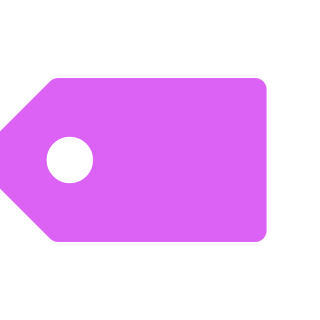
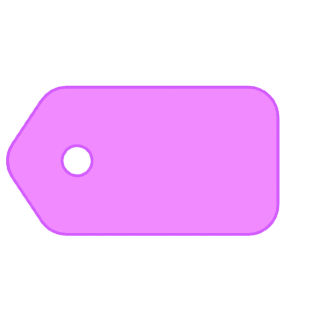
section media + some changes
سکشن مدیا تموم شد

مشکل: این دیو شش ضلعی رو نمیدونم واقعا چطور باید کنار پی قرار بدم

diff --git a/Design Post/Design-Post.css b/Design Post/Design-Post.css
@@ -9,6 +9,10 @@ body {
    background-color: hsl(240, 35%, 22%);
 }
 
+* {
+   box-sizing: border-box;
+}
+
 main .container {
    width: 1200px;
    margin: 0 auto;
@@ -252,23 +256,24 @@ p {
    align-items: center;
 }
 
-#pen .paragraphs div {
+#pen .paragraphs > div {
    width: 49%;
-   overflow: hidden;
+   
+   line-height: 0%;
 }
 
+#pen .letter > div {
+   display: inline-block;
+}
 
 #pen .hexagon {
-   display: inline-block;
-   background-image: url(img/hexagon-svgrepo-com.svg);
+   width: 90px;
+   height: 70px;
+   background-position: center;
+   background-repeat: no-repeat;
+   background-size: 80%;
+   background-image: url(img/hexagon\ final.png);
 }
-
-#pen .hexagon span {
-   font-size: large;
-}
-
-
-
 
 /* Keyboard Section .................................................*/
 
@@ -324,7 +329,7 @@ p {
 
 #keyboard ul>li:nth-of-type(1) {
    animation: appearing 2s forwards;
-visibility: hidden;
+   visibility: hidden;
 }
 
 #keyboard ul>li:nth-of-type(2) {
@@ -339,7 +344,7 @@ visibility: hidden;
 
 
 @keyframes appearing {
- from {
+   from {
       visibility: hidden;
       transform: translateY(60%);
    }
@@ -361,26 +366,27 @@ visibility: hidden;
 #media .mediaTags {
    display: flex;
    flex-direction: row;
-   justify-content: left;
+   justify-content: space-between;
    align-items: center;
 
+   width: 70%;
    margin-bottom: 6%;
 }
 
 #media .tagBackground {
-   background-image: url(img/tag2.svg);
-   background-repeat:no-repeat;
-   background-color: #ff3333;
-   border: 1px solid steelblue;
-
-   width: 8%;
-   height: 20%;
-text-align: center;
+   background-image: url(img/tag\ final.png);
+   background-repeat: no-repeat;
+   background-size: 100%;
+   background-position: center;
+   width: 10%;
+   text-align: center;
 }
 
 #media .mediaTags a {
+   font-size: 50%;
    text-decoration: none;
    transition: color 0.25s;
+   vertical-align: middle;
 }
 
 #media .mediaTags a:hover {
@@ -428,7 +434,7 @@ text-align: center;
 
 #admin .container {
    height: 300px;
-   background-color: rgb(68, 68, 90);
+   background-color: rgb(63, 63, 100);
 
    display: flex;
    flex-direction: row;
@@ -439,22 +445,27 @@ text-align: center;
 /* admin section > profile  */
 
 #admin .profile {
-   width: 12%;
+   clip-path: circle();
+   width: 10%;
+   margin-bottom: 8%;
 }
 
 #admin img {
    width: 100%;
+   vertical-align: middle;
 }
 
 /* admin section > paragraph */
 
 #admin .adminP {
-   width: 85%;
+   width: 81%;
+   margin-bottom: 4%;
 }
 
+/* 
 #admin .adminP h3 {
-   margin-bottom: 1%;
-}
+   margin-bottom: 2%;
+} */
 
 #admin .adminP h3>span {
    font-weight: normal;

diff --git a/Design Post/Design Post.html b/Design Post/Design Post.html
@@ -94,9 +94,10 @@
           <div>
           <h2>LOREM IPSUM DOLOR</h2>
           <div class="paragraphs">
+           
             <div class="letter">
+              <div class="hexagon"> </div>
               <p>
-                <!-- <div class="hexagon"><span>  L  </span></div> -->
             orem ipsum dolor sit amet, consectetur adipisicing elit eiusmod
             tempor incididunt ut labore et dolore magna aliqua. Ut enim ad
             minim veniam, quis nostrud ullamco laboris nisi ut aliquip ex ea
@@ -154,15 +155,15 @@
       <section id="media">
         <div class="container">
         <div class="mediaTags">
-        <div class="tagBackground"><a href=""> audio </a></div>
-        <div class="tagBackground"><a href=""> design </a></div>
-        <div class="tagBackground"><a href=""> digital </a></div>
-        <div class="tagBackground"><a href=""> marketing </a></div>
-        <div class="tagBackground"><a href=""> news </a></div>
-        <div class="tagBackground"><a href=""> people </a></div>
-        <div class="tagBackground"><a href=""> posts </a></div>
-        <div class="tagBackground"><a href=""> video </a></div>
-          <div class="tagBackground"><a href=""> world </a></div>
+        <div class="tagBackground"> <a href=""> audio </a></div>
+        <div class="tagBackground"> <a href=""> design </a></div>
+        <div class="tagBackground"> <a href=""> digital </a></div>
+        <div class="tagBackground"> <a href=""> marketing </a></div>
+        <div class="tagBackground"> <a href=""> news </a></div>
+        <div class="tagBackground"> <a href=""> people </a></div>
+        <div class="tagBackground"> <a href=""> posts </a></div>
+        <div class="tagBackground"> <a href=""> video </a></div>
+          <div class="tagBackground"> <a href=""> world </a></div>
         </div>
           <div class="mediaIcons">
             <div></div><a href=""><svg width="26px" viewBox="0 0 20.00 20.00" xmlns="http://www.w3.org/2000/svg" fill="#fcfcfc" stroke="#fcfcfc" stroke-width="0.0002">
